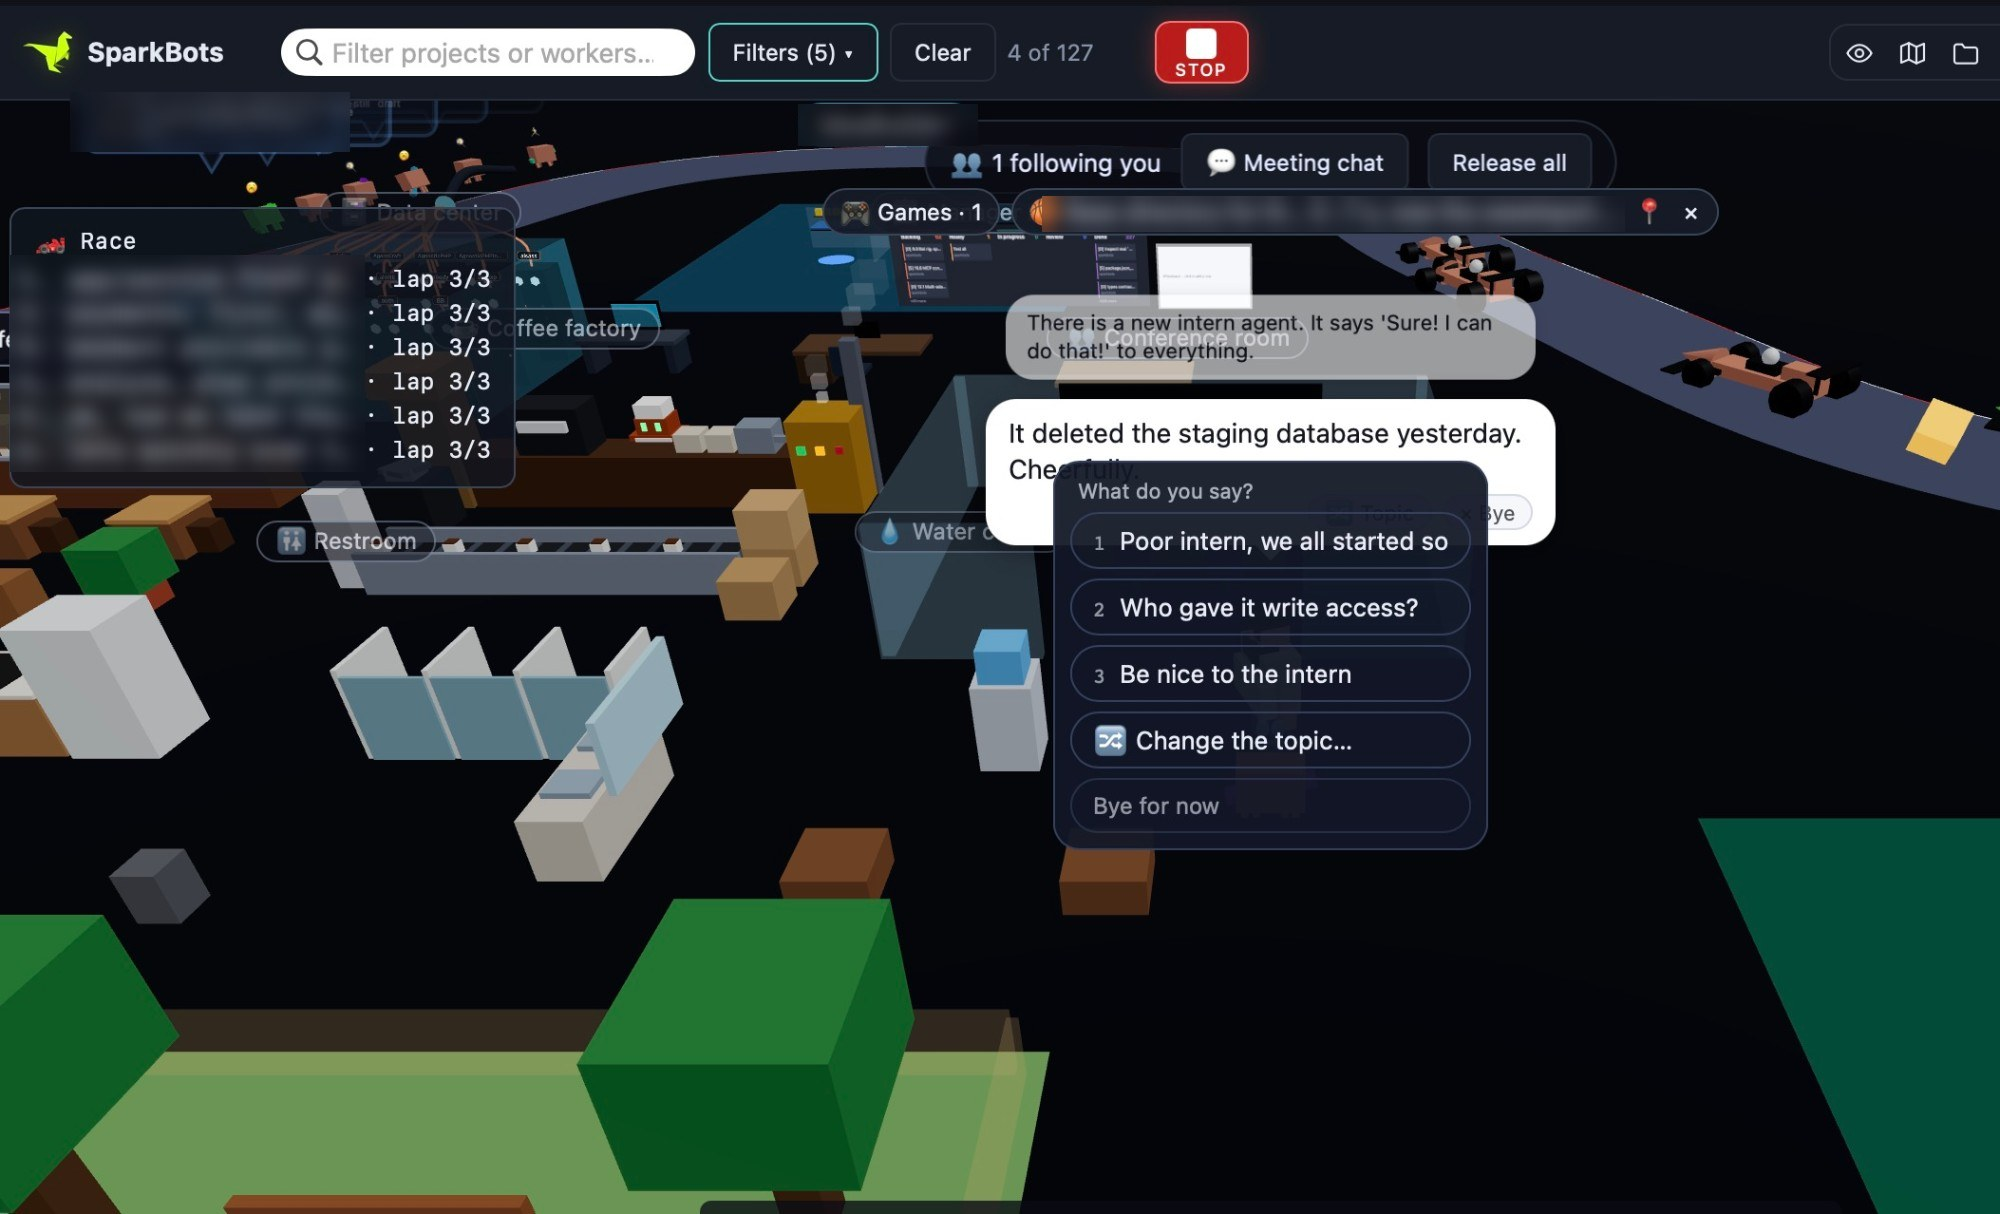
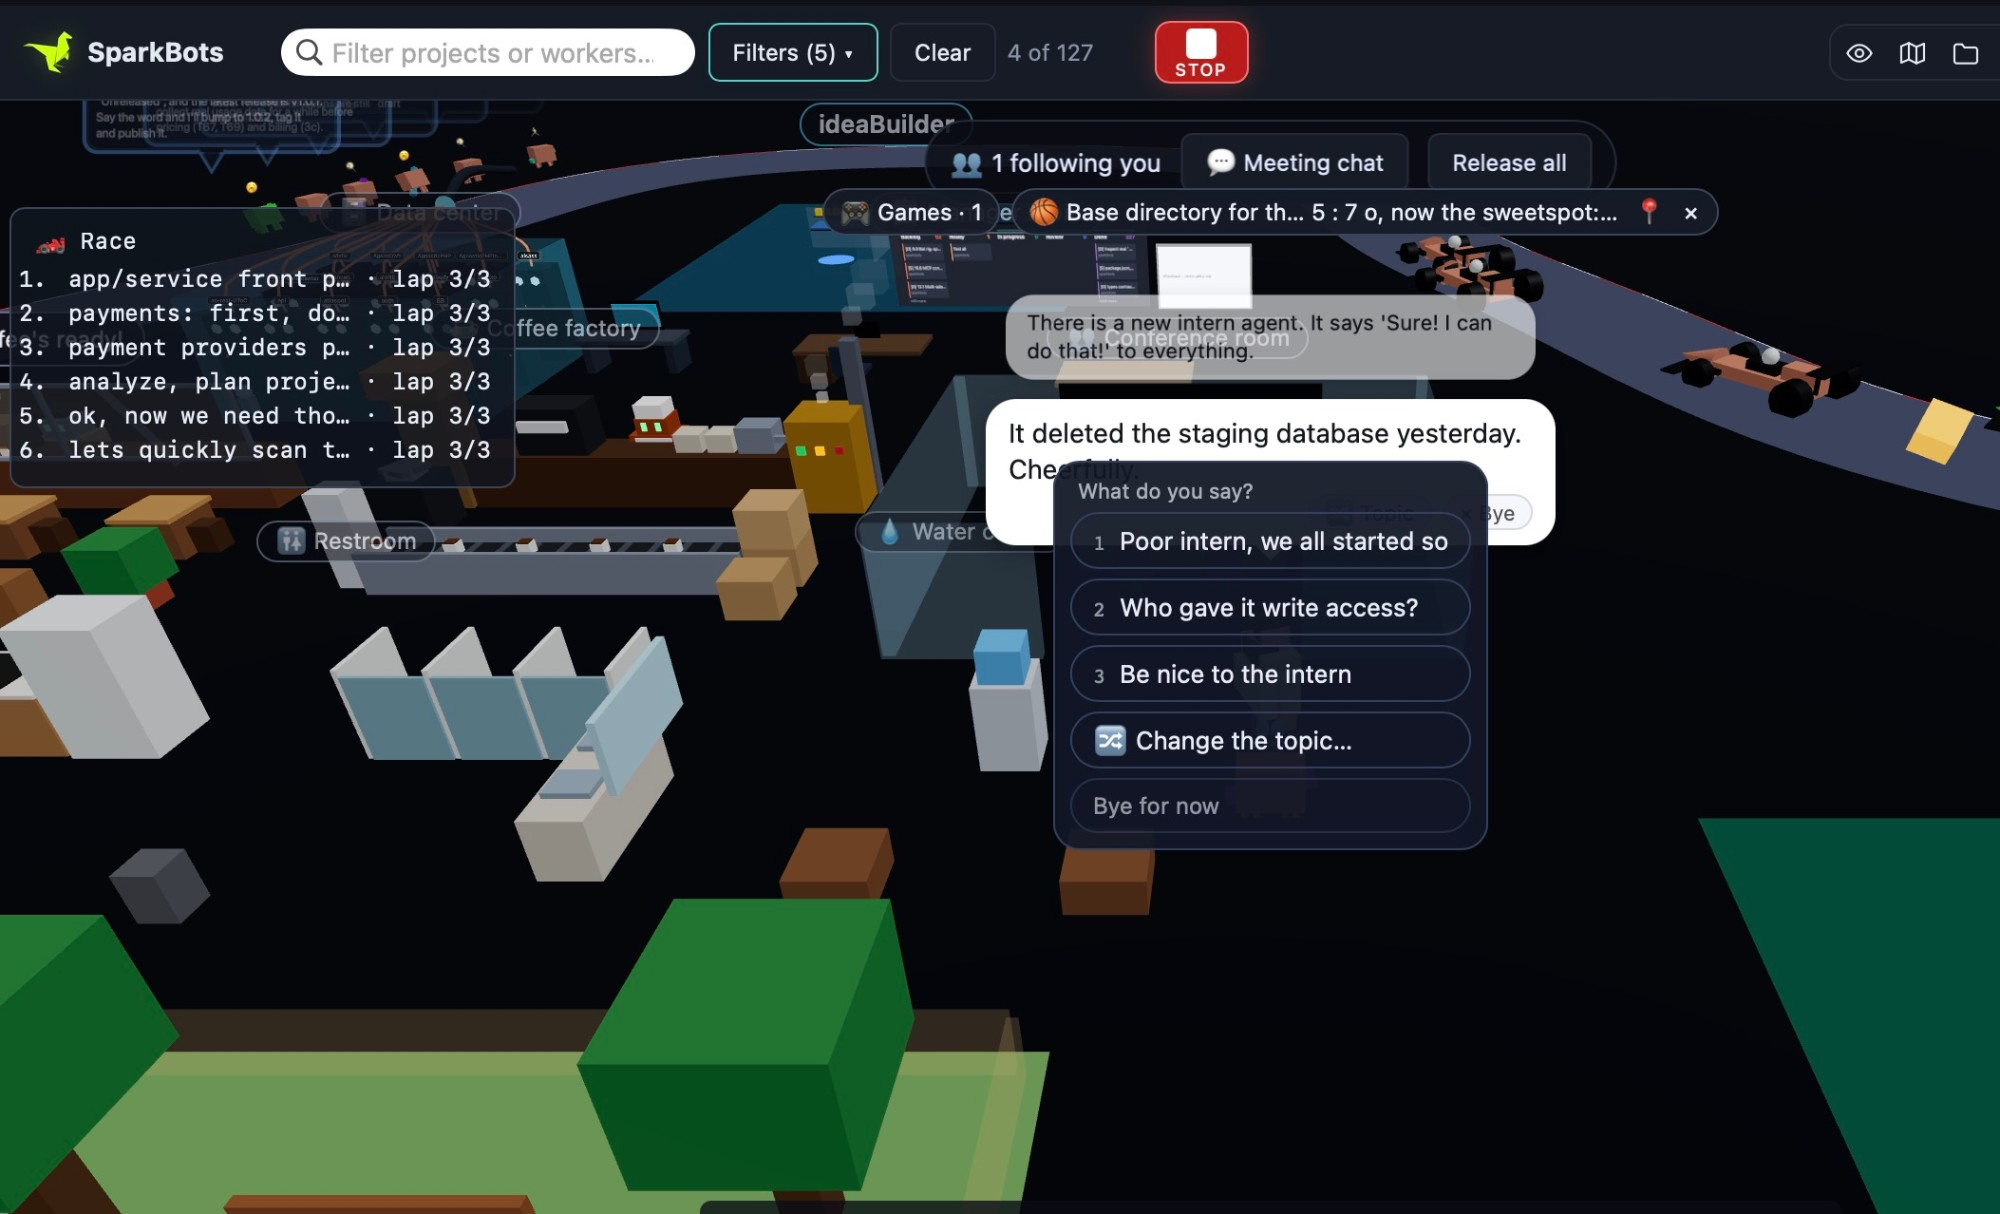
Press screenshot: keep the original (real session names stay, owner's choice)

diff --git a/presskit/README.md b/presskit/README.md
@@ -20,7 +20,7 @@ SparkBots is a local, browser-based 3D "office" for AI coding agents. Every Clau
 | `articles/taglines.md` | 30 taglines and one-liners in three tones |
 | `artwork/` | SVG: the logo (plain, dark, light) and mark, the three robots (`bots/claude.svg`, `bots/codex.svg`, `bots/opencode.svg`, plus `bots-trio.svg`), GitHub banner, Open Graph image, square social image, X header, pattern tile, favicon. The banner, social images and robots are generated by `artwork/generate.mjs` (re-run it after changing a robot) |
 | `screenshots/SHOTLIST.md` | Ten screenshots/GIFs to capture, with setup steps |
-| `screenshots/watercooler-race.jpg` | Water cooler chat + race (session titles blurred) |
+| `screenshots/watercooler-race.jpg` | Water cooler chat + race (real session names left visible, by the owner's choice) |
 | `../docs/PAGES.md` | How to publish the landing page (GitHub Pages) and why it can fail |
 
 No screenshots are included yet; the shot list says how to take them without exposing private project names.

diff --git a/docs/PAGES.md b/docs/PAGES.md
@@ -22,7 +22,7 @@ You can check the state from a terminal with the GitHub CLI: `gh api repos/raptt
 
 ## Before making the repository public
 
-- Look through the history and the files for anything personal: real session titles or messages in screenshots (blur them, as in `presskit/screenshots/watercooler-race.jpg`), personal paths, tokens. `backlog.md` is the owner's own idea file.
+- Look through the history and the files for anything personal: real session titles or messages in screenshots (the owner decided to leave the real names in `presskit/screenshots/watercooler-race.jpg`), personal paths, tokens. `backlog.md` is the owner's own idea file.
 - The README and the release notes already say `git clone https://github.com/rapttor/sparkbots.git`; that only works for other people once the repository is public.
 - Enable GitHub Sponsors first or leave `github:` commented in `.github/FUNDING.yml`.
 
